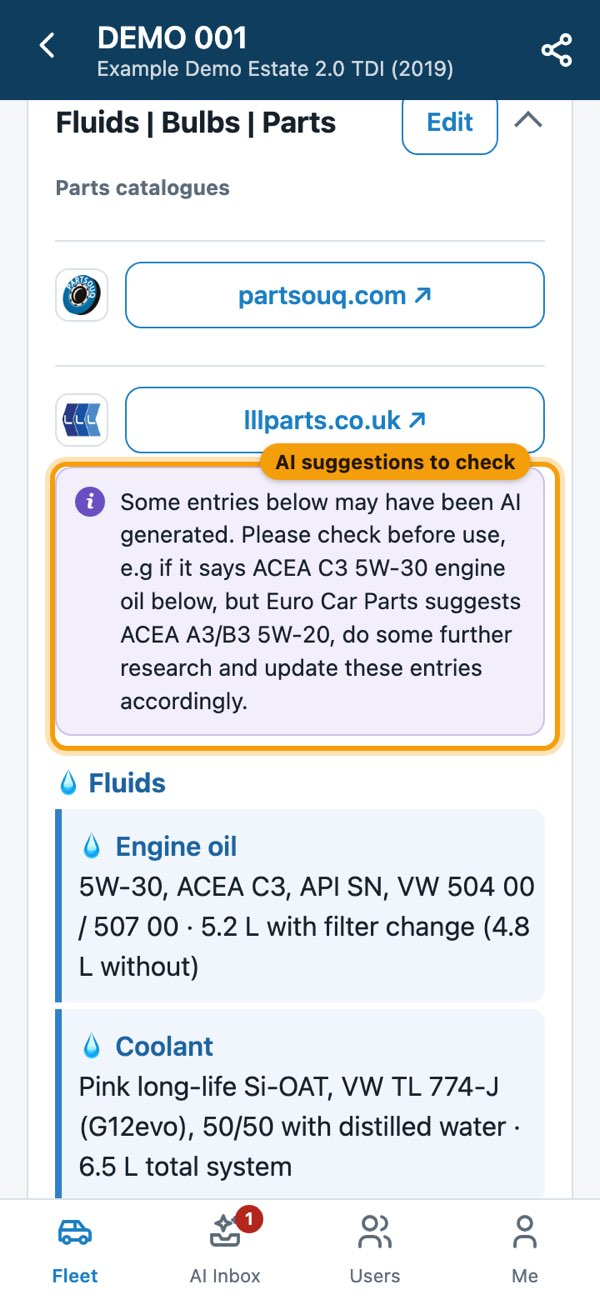
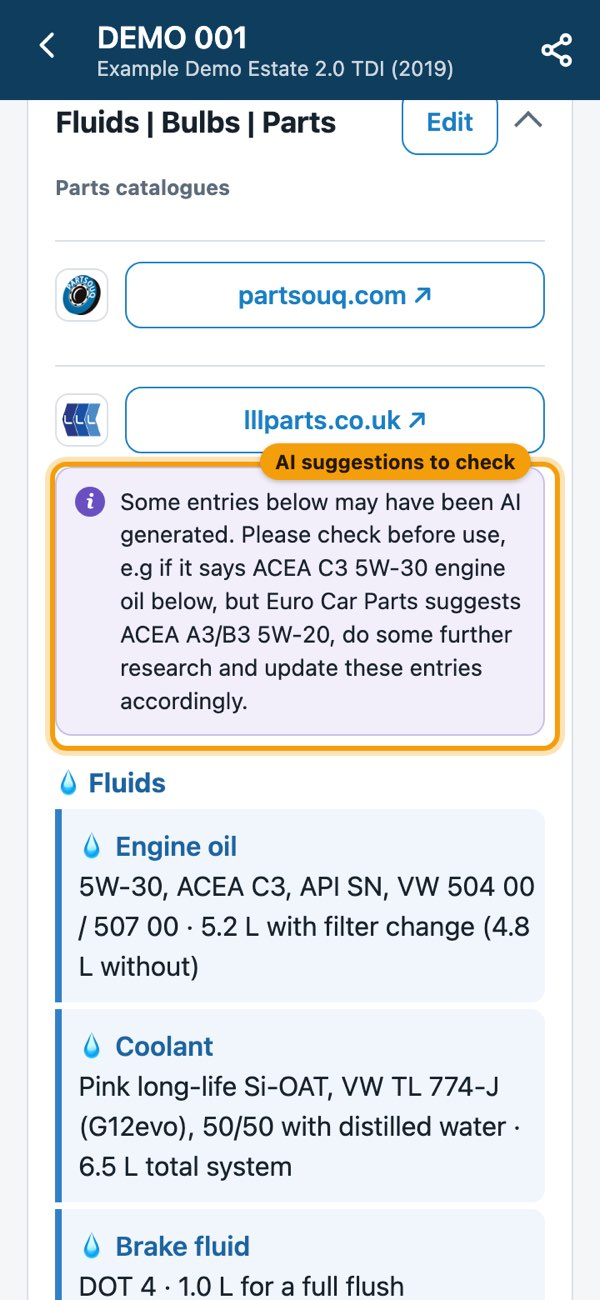
Log filter: every kind keeps its tile, with a count of zero when there are none (a little quieter)

Changed region(s): [[0.09, 0.9231, 0.69, 1.0], [0.84, 0.9231, 0.9, 0.9846]]

diff --git a/web/views-entries.js b/web/views-entries.js
@@ -405,17 +405,18 @@
       chips.replaceChildren();
       var counts = {};
       data.forEach(function (e) { counts[e.type] = (counts[e.type] || 0) + 1; });
-      if (Object.keys(counts).length > 1) {
+      if (data.length) {
         // Tiles in the same soft colours as the pictures shown for entries without a photo; the chosen one is solid.
-        var types = ['All'].concat(Object.keys(PLURAL).filter(function (t) { return counts[t]; }));
+        // Every kind always has its tile, with a count of zero if there are none.
+        var types = ['All'].concat(Object.keys(PLURAL));
         var tiles = el('div', { class: 'filter-tiles' });
         // each tile is as wide as its name needs (short ones narrower);
         // set here, not as an attribute (the page's security policy blocks inline style attributes)
         tiles.style.gridTemplateColumns = types.map(function (t) { return 'minmax(0, ' + ((t === 'All' ? 3 : PLURAL[t].length) + 3) + 'fr)'; }).join(' ');
         types.forEach(function (t) {
-          var b = el('button', { type: 'button', class: 'filter-tile ft-' + t.toLowerCase() + (t === filter ? ' on' : ''), 'aria-pressed': t === filter ? 'true' : 'false' }, [
+          var b = el('button', { type: 'button', class: 'filter-tile ft-' + t.toLowerCase() + (t === filter ? ' on' : '') + (t !== 'All' && !counts[t] ? ' none' : ''), 'aria-pressed': t === filter ? 'true' : 'false' }, [
             el('span', { class: 'ft-name', text: t === 'All' ? 'All' : PLURAL[t] }),
-            el('b', { class: 'ft-count', text: String(t === 'All' ? data.length : counts[t]) }),
+            el('b', { class: 'ft-count', text: String(t === 'All' ? data.length : (counts[t] || 0)) }),
           ]);
           b.addEventListener('click', function () { filter = t; render(); });
           tiles.append(b);
@@ -430,7 +431,7 @@
       var shown = data.filter(function (e) { return filter === 'All' || e.type === filter; });
       if (selecting) updateSelectUi();
       list.replaceChildren.apply(list, shown.length ? shown.map(row)
-        : [el('p', { class: 'muted', text: data.length ? 'Nothing of that kind yet.' : 'Nothing recorded yet. Add the first entry above.' })]);
+        : [el('p', { class: 'muted', text: data.length ? 'No ' + (filter === 'All' ? 'entries' : PLURAL[filter].toLowerCase()) + ' yet.' : 'Nothing recorded yet. Add the first entry above.' })]);
     }
 
     function show(entries) {

diff --git a/web/styles.css b/web/styles.css
@@ -995,6 +995,7 @@ body.selecting #app { padding-bottom: 110px; }
 .filter-tile.ft-issue { background: color-mix(in srgb, var(--bad) 12%, transparent); color: var(--bad); }
 .filter-tile.ft-maintenance { background: color-mix(in srgb, var(--ok) 14%, transparent); color: var(--ok); }
 .filter-tile.ft-purchase { background: var(--warn-bg); color: var(--warn-text); }
+.filter-tile.none:not(.on) { opacity: 0.6; } /* a kind with nothing in it is still there, a little quieter */
 .filter-tile.on { border-color: currentColor; } /* the chosen tile keeps its soft colour and gains an outline; the bar below it does the pointing */
 .filter-bar { position: relative; padding-bottom: 9px; }
 .filter-slider { position: absolute; left: 0; bottom: 0; height: 5px; width: 0; border-radius: 5px; background: var(--accent); transition: left 0.3s cubic-bezier(0.4, 0, 0.2, 1), width 0.3s cubic-bezier(0.4, 0, 0.2, 1), background 0.3s; }
